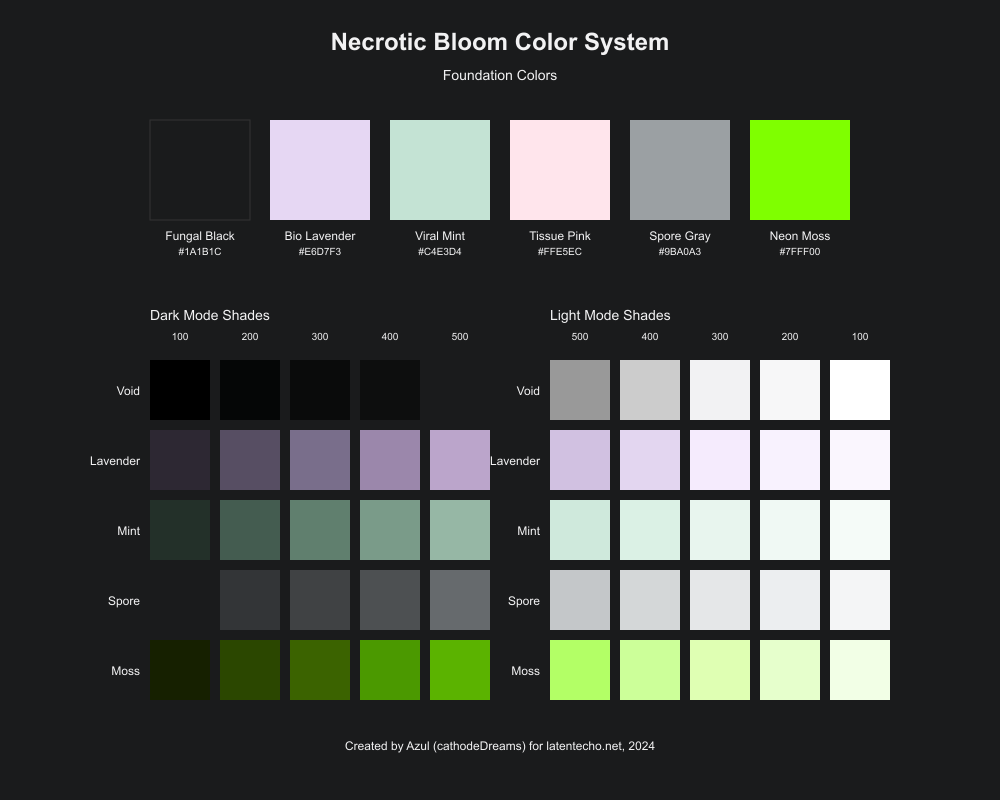
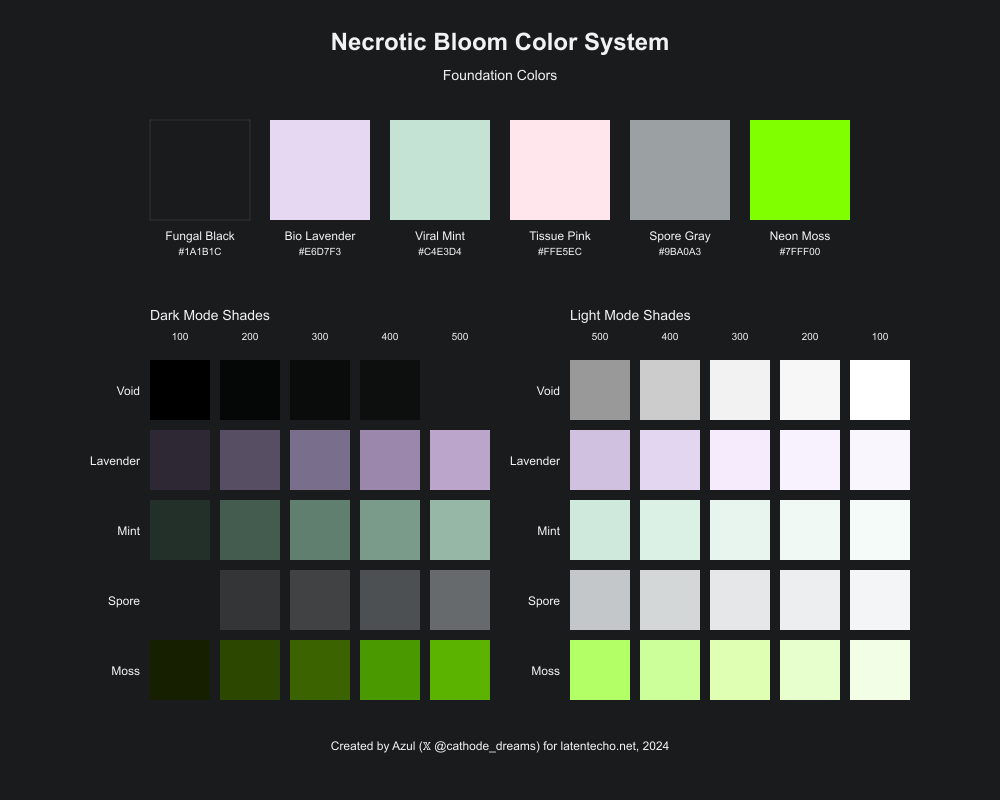
README

diff --git a/README.md b/README.md
@@ -121,8 +121,6 @@ A biopunk color system designed for Latent Echo
 }
 ```
 
-## Attribution
-
 Created by Azul ([𝕏 @cathode_dreams](https://x.com/cathode_dreams)) for latentecho.net, 2024.
 
 ## Version History
